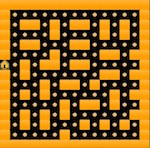
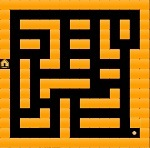
Pacman 3 niveles DFS

diff --git a/pacmanGame.py b/pacmanGame.py
@@ -345,6 +345,23 @@ class Pared ( MiSprite ):
 
 #--- Fin Pared ---------------------------------------------  
 
+#-- Inicio track -------------------------------------------
+
+class Track ( MiSprite ):
+    def __init__(self, fichero_imagen, pos_inicial, dimension):
+        MiSprite.__init__(self)
+
+        self.image = pygame.Surface(dimension) #creamos una superficie de las dimensiones indicadas
+        if not fichero_imagen is None:
+            self.image = cargar_imagen(fichero_imagen)
+            self.rect = self.image.get_rect()
+            self.rect.topleft = pos_inicial
+            self.infranqueable = False
+
+
+    def update(self):
+        MiSprite.update(self)
+
 #--- Inicio Pacman -----------------------------------------------            
 
 class Pacman ( SpriteMovil ):
@@ -524,39 +541,39 @@ def juego(numeroLaberinto):
                     [1,0,0,0,0,0,1,0,1,0,0,0,0,0,1],
                     [1,0,1,1,1,1,1,0,1,0,1,1,1,0,1],
                     [1,0,0,0,1,0,0,0,1,0,1,0,0,0,1],
-                    [1,1,1,0,0,0,1,1,1,0,0,0,1,1,1],
+                    [1,1,1,0,2,0,1,1,1,0,0,0,1,1,1],
                     [1,1,1,1,1,1,1,1,1,1,1,1,1,1,1]]
 
     laberinto2 =    [[1,1,1,1,1,1,1,1,1,1,1,1,1,1,1],
                     [1,0,0,0,0,0,0,0,0,0,0,0,0,0,1],
-                    [1,0,1,1,0,1,0,1,1,0,1,0,1,0,1],
+                    [1,0,1,1,1,1,0,1,1,0,1,0,1,0,1],
                     [1,0,0,0,0,1,0,0,0,0,1,0,1,0,1],
-                    [1,0,1,1,0,0,0,1,1,0,0,0,0,0,1],
+                    [1,0,1,1,0,1,0,1,1,0,1,0,0,0,1],
                     [1,0,0,0,0,1,0,0,0,0,1,1,0,1,1],
-                    [0,0,1,0,1,1,0,1,1,0,0,0,0,0,1],
+                    [0,0,1,0,1,1,0,1,1,0,0,0,0,1,1],
                     [1,0,1,0,0,0,0,0,0,0,1,1,0,1,1],
-                    [1,0,0,0,1,0,1,1,0,1,0,0,0,0,1],
+                    [1,0,1,0,1,1,1,1,1,0,0,0,0,1,1],
                     [1,0,1,0,1,0,0,0,0,0,0,1,0,1,1],
-                    [1,0,0,0,0,0,1,0,1,1,0,1,0,0,1],
-                    [1,0,1,0,1,0,1,0,0,0,0,0,0,1,1],
-                    [1,0,1,0,1,0,0,0,1,0,1,0,1,0,1],
-                    [1,0,0,0,0,0,1,0,0,0,0,0,0,0,1],
+                    [1,0,1,0,0,0,1,0,1,1,1,1,0,1,1],
+                    [1,0,0,0,1,0,1,0,0,0,0,0,0,1,1],
+                    [1,0,1,1,1,0,1,0,1,1,1,1,0,1,1],
+                    [1,0,0,0,0,0,1,0,0,0,0,0,0,2,1],
                     [1,1,1,1,1,1,1,1,1,1,1,1,1,1,1]]
 
     laberinto3 =    [[1,1,1,1,1,1,1,1,1,1,1,1,0,1,1],
-                    [1,0,0,0,0,0,0,0,0,0,0,0,0,0,1],
-                    [1,0,1,0,1,1,0,1,1,0,1,0,1,0,1],
-                    [1,0,1,0,0,0,0,0,0,0,1,0,0,0,1],
+                    [1,2,1,0,0,0,0,0,0,0,0,0,0,0,1],
+                    [1,0,1,0,1,1,1,1,1,0,1,0,1,1,1],
+                    [1,0,1,0,0,0,1,0,0,0,1,0,0,0,1],
                     [1,0,0,0,1,0,1,0,1,0,0,0,1,0,1],
-                    [1,0,1,0,1,0,1,0,1,0,1,0,1,0,1],
+                    [1,0,1,0,1,0,1,0,1,0,1,1,1,0,1],
+                    [1,0,1,0,1,0,0,0,1,0,1,0,0,0,1],
+                    [1,0,1,0,1,1,0,1,1,0,1,0,1,0,1],
+                    [1,0,1,0,0,0,0,0,0,0,1,0,1,0,1],
+                    [1,0,0,0,1,1,1,1,1,0,0,0,1,0,1],
+                    [1,0,1,0,0,0,0,0,0,0,1,0,1,0,1],
+                    [1,0,1,0,1,1,0,1,1,1,1,0,1,0,1],
                     [1,0,1,0,0,0,0,0,0,0,0,0,0,0,1],
-                    [1,0,0,0,1,1,0,1,1,0,1,0,1,0,1],
-                    [1,0,1,0,0,0,0,0,0,0,1,0,1,0,1],
-                    [1,0,0,0,1,1,0,1,1,0,0,0,0,0,1],
-                    [1,0,1,0,0,0,0,0,0,0,1,0,1,0,1],
-                    [1,0,0,0,1,1,0,1,0,1,1,0,1,0,1],
-                    [1,0,1,0,0,0,0,1,0,0,0,0,0,0,1],
-                    [1,0,0,0,1,0,1,0,0,1,0,1,0,1,1],
+                    [1,0,0,0,1,1,1,1,1,1,1,1,1,1,1],
                     [1,1,1,1,1,1,1,1,1,1,1,1,1,1,1]]
 
     laberinto4 =    [[1,1,1,1,1,1,1,1,1,1,1,1,1,1,1],
@@ -740,6 +757,16 @@ def juego(numeroLaberinto):
                     sprite = Pared ( "wall.png", [Pared_x,Pared_y], [50,50] )
                     sprites.add (sprite)
                     Pared_x+=50
+                elif (laberinto[i][j] == 2):
+                    laberinto[i][j]= Casilla('meta')
+                    laberinto[i][j].set_x_y(i,j)
+                    laberinto[i][j].set_pared(Pared_x,Pared_y)
+                    sprite = MiSprite ("bola.png", [Pared_x+15, Pared_y+15])
+                    sprite.comestible = True
+                    sprite.puntos = 5
+                    sprites.add ( sprite )
+                    contadorGalletasTotal +=1
+                    Pared_x+=50
                 else:
                     if(i ==posicionSalida[0] and j==posicionSalida[1]):
                         laberinto[i][j] = Casilla('salida')
@@ -761,14 +788,6 @@ def juego(numeroLaberinto):
                         laberinto[i][j].set_x_y(i,j)
                         laberinto[i][j].set_pared(Pared_x,Pared_y)
                         Pared_x+=50
-                        if i == 13 and j == 3:
-                            laberinto[13][3]= Casilla('meta')
-                            sprite = MiSprite ("bola.png", [Pared_x+15, Pared_y+15])
-                            sprite.comestible = True
-                            sprite.puntos = 5
-                            sprites.add ( sprite )
-                            contadorGalletasTotal +=1
-
             Pared_x=0
             Pared_y+=50
     
@@ -809,7 +828,7 @@ def juego(numeroLaberinto):
             dfs_stack.append(laberinto[x-1][y])
             laberinto[x-1][y].set_visitado()
             laberinto[x-1][y].set_direccion('arriba')
-            sprite = Pared ( "trail.png", [laberinto[x-1][y].Pared_x,laberinto[x-1][y].Pared_y], [50,50] )
+            sprite = Track ( "up.jpg", [laberinto[x-1][y].Pared_x,laberinto[x-1][y].Pared_y], [50,50] )
             sprites.add (sprite)
             if laberinto[x-1][y].tipo == 'meta':
                 break
@@ -818,7 +837,7 @@ def juego(numeroLaberinto):
             dfs_stack.append(laberinto[x][y+1])
             laberinto[x][y+1].set_visitado()
             laberinto[x][y+1].set_direccion('derecha')
-            sprite = Pared ( "trail.png", [laberinto[x][y+1].Pared_x,laberinto[x][y+1].Pared_y], [50,50] )
+            sprite = Track ( "right.jpg", [laberinto[x][y+1].Pared_x,laberinto[x][y+1].Pared_y], [50,50] )
             sprites.add (sprite)
             if laberinto[x][y+1].tipo == 'meta':
                 break
@@ -827,7 +846,7 @@ def juego(numeroLaberinto):
             dfs_stack.append(laberinto[x+1][y])
             laberinto[x+1][y].set_visitado()
             laberinto[x+1][y].set_direccion('abajo')
-            sprite = Pared ( "trail.png", [laberinto[x+1][y].Pared_x,laberinto[x+1][y].Pared_y], [50,50] )
+            sprite = Track ( "down.jpg", [laberinto[x+1][y].Pared_x,laberinto[x+1][y].Pared_y], [50,50] )
             sprites.add (sprite)
             if laberinto[x+1][y].tipo == 'meta':
                 break
@@ -836,26 +855,38 @@ def juego(numeroLaberinto):
             dfs_stack.append(laberinto[x][y-1])
             laberinto[x][y-1].set_visitado()
             laberinto[x][y-1].set_direccion('izquierda')
-            sprite = Pared ( "trail.png", [laberinto[x][y-1].Pared_x,laberinto[x][y-1].Pared_y], [50,50] )
+            sprite = Track ( "left.jpg", [laberinto[x][y-1].Pared_x,laberinto[x][y-1].Pared_y], [50,50] )
             sprites.add (sprite)
             if laberinto[x][y-1].tipo == 'meta':
                 break
             y = y-1
         else:
             dfs_stack.pop()
-            x = dfs_stack[-1].x
-            y = dfs_stack[-1].y
-            sprite = Pared ( "backtrack.png", [dfs_stack[-1].Pared_x,dfs_stack[-1].Pared_y], [50,50] )
-            sprites.add (sprite)
+            last_casilla = dfs_stack[-1]
+            x = last_casilla.x
+            y = last_casilla.y
+            if last_casilla.direccion == 'arriba':
+                sprite = Track ( "bup.jpg", [last_casilla.Pared_x,last_casilla.Pared_y], [50,50] )
+                sprites.add (sprite)
+            elif last_casilla.direccion == 'derecha':
+                sprite = Track ( "bright.jpg", [last_casilla.Pared_x,last_casilla.Pared_y], [50,50] )
+                sprites.add (sprite)
+            elif last_casilla.direccion == 'abajo':
+                sprite = Track ( "bdown.jpg", [last_casilla.Pared_x,last_casilla.Pared_y], [50,50] )
+                sprites.add (sprite)
+            elif last_casilla.direccion == 'izquierda':
+                sprite = Track ( "bleft.jpg", [last_casilla.Pared_x,last_casilla.Pared_y], [50,50] )
+                sprites.add (sprite)
+
         #Fin Algoritmo DFS
 
         reloj = pygame.time.Clock()
         ManejarEventos ()
         
         sprites.update ()
-        sprites.clear (screen, background) 
+        sprites.clear (screen, background)
         
-        pygame.display.update (sprites.draw (screen))        
+        pygame.display.update (sprites.draw (screen))
         if bandera == 1:
             reloj.tick (40) #tiempo de espera entre frames
     
